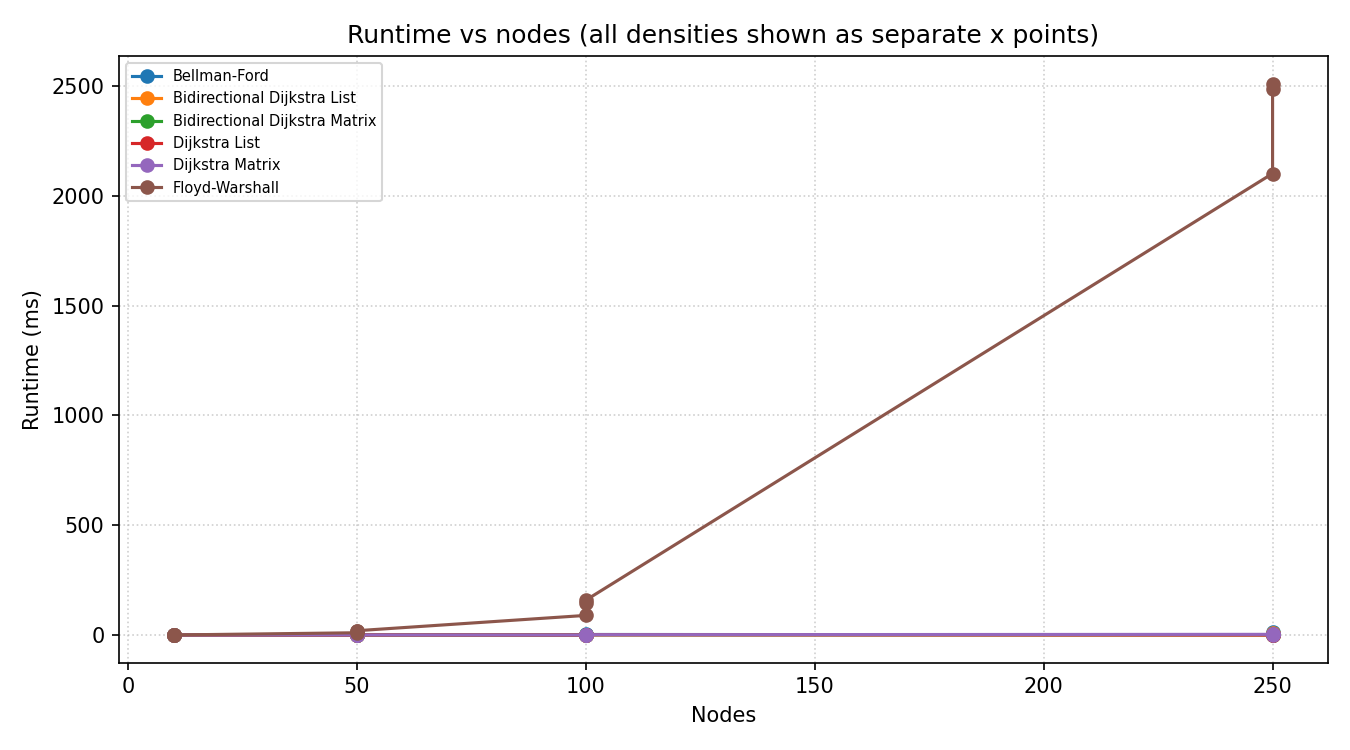
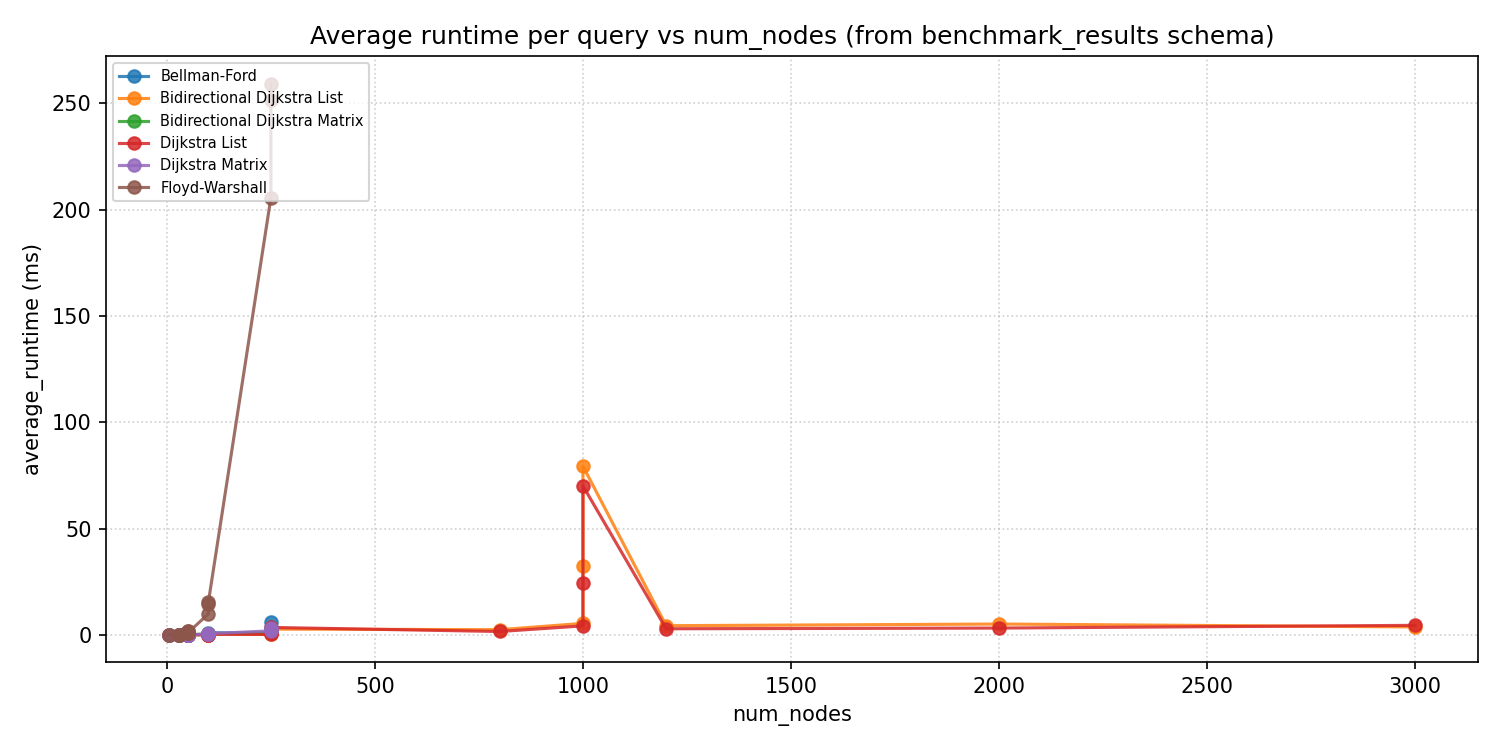
Fix infinite loop on negative cycles and add 1000-node scale test

diff --git a/main.py b/main.py
@@ -123,9 +123,21 @@ def _average_distance_summary(distances: List[Optional[float]]) -> str:
 
 
 def _should_skip_algorithm(case: Dict[str, Any], algorithm_name: str) -> Optional[str]:
-    if case["benchmark_type"] != "large_scalability":
-        return None
-    return LARGE_SCALABILITY_SKIP.get(algorithm_name)
+    num_nodes = case["num_nodes"]
+
+    if algorithm_name == "Floyd-Warshall" and num_nodes > 250:
+        return "Skipped due to O(V^3) matrix memory/runtime cost"
+
+    if algorithm_name == "Bellman-Ford" and num_nodes >= 1000:
+        return "Skipped due to O(VE) scalability limit on large graphs"
+
+    if algorithm_name in ("Dijkstra Matrix", "Bidirectional Dijkstra Matrix") and num_nodes >= 1000:
+        return "Skipped due to O(V^2) matrix representation limits"
+
+    if case["benchmark_type"] == "large_scalability":
+        return LARGE_SCALABILITY_SKIP.get(algorithm_name)
+
+    return None
 
 
 def _status_for_row(
@@ -271,15 +283,22 @@ def _run_benchmark() -> List[Dict[str, Any]]:
         fw_shared: Optional[Tuple[List[List[float]], int, bool, float]] = None
 
         if benchmark_type == "all_algorithms":
-            t_prep0 = time.perf_counter()
-            dist_matrix, prep_visited, has_negative_cycle = floyd_warshall_preprocess(
-                num_nodes, edges
-            )
-            prep_seconds = time.perf_counter() - t_prep0
-            fw_shared = (dist_matrix, prep_visited, has_negative_cycle, prep_seconds)
-            reference = _reference_per_query(
-                num_nodes, edges, queries, dist_matrix, has_negative_cycle
-            )
+            if num_nodes <= 250:
+                t_prep0 = time.perf_counter()
+                dist_matrix, prep_visited, has_negative_cycle = floyd_warshall_preprocess(
+                    num_nodes, edges
+                )
+                prep_seconds = time.perf_counter() - t_prep0
+                fw_shared = (dist_matrix, prep_visited, has_negative_cycle, prep_seconds)
+                reference = _reference_per_query(
+                    num_nodes, edges, queries, dist_matrix, has_negative_cycle
+                )
+            else:
+                has_negative_cycle = False
+                reference = []
+                for s, t in queries:
+                    dist, _ = dijkstra_list(num_nodes, edges, s, t)
+                    reference.append(_normalize_distance(dist))
 
         for algo_name, algo_fn in ALGORITHMS:
             skip_reason = _should_skip_algorithm(case, algo_name)

diff --git a/bidirectional_dijkstra.py b/bidirectional_dijkstra.py
@@ -49,6 +49,8 @@ def bidirectional_dijkstra_list(
     heap_b: List[Tuple[float, int]] = [(0.0, target)]
     visited_count = 0
     best = INF
+    pop_count_f = [0] * num_nodes
+    pop_count_b = [0] * num_nodes
 
     while heap_f and heap_b:
         min_f = heap_f[0][0]
@@ -60,6 +62,9 @@ def bidirectional_dijkstra_list(
             d_u, u = heapq.heappop(heap_f)
             if d_u != dist_f[u]:
                 continue
+            pop_count_f[u] += 1
+            if pop_count_f[u] > num_nodes:
+                break
             for v, w in g_f[u]:
                 visited_count += 1
                 nd = d_u + w
@@ -74,6 +79,9 @@ def bidirectional_dijkstra_list(
             d_u, u = heapq.heappop(heap_b)
             if d_u != dist_b[u]:
                 continue
+            pop_count_b[u] += 1
+            if pop_count_b[u] > num_nodes:
+                break
             for v, w in g_r[u]:
                 visited_count += 1
                 nd = d_u + w

diff --git a/dijkstra.py b/dijkstra.py
@@ -41,11 +41,15 @@ def dijkstra_list(num_nodes: int, edges: Sequence[Edge], source: int, target: in
     dist[source] = 0.0
     heap: List[Tuple[float, int]] = [(0.0, source)]
     visited_count = 0
+    pop_count = [0] * num_nodes
 
     while heap:
         d_u, u = heapq.heappop(heap)
         if d_u != dist[u]:
             continue
+        pop_count[u] += 1
+        if pop_count[u] > num_nodes:
+            break
         if u == target:
             break
         for v, w in graph[u]:

diff --git a/graph_utils.py b/graph_utils.py
@@ -215,7 +215,7 @@ def create_test_cases() -> List[Dict[str, Any]]:
     query_count = 6
 
     # --- 1) Small/Medium: all algorithms, nonnegative weights -----------------
-    sizes = [50, 100, 200, 250]
+    sizes = [50, 100, 250, 1000]
     densities = [0.02, 0.10, 0.25]
     for n in sizes:
         for d in densities:
